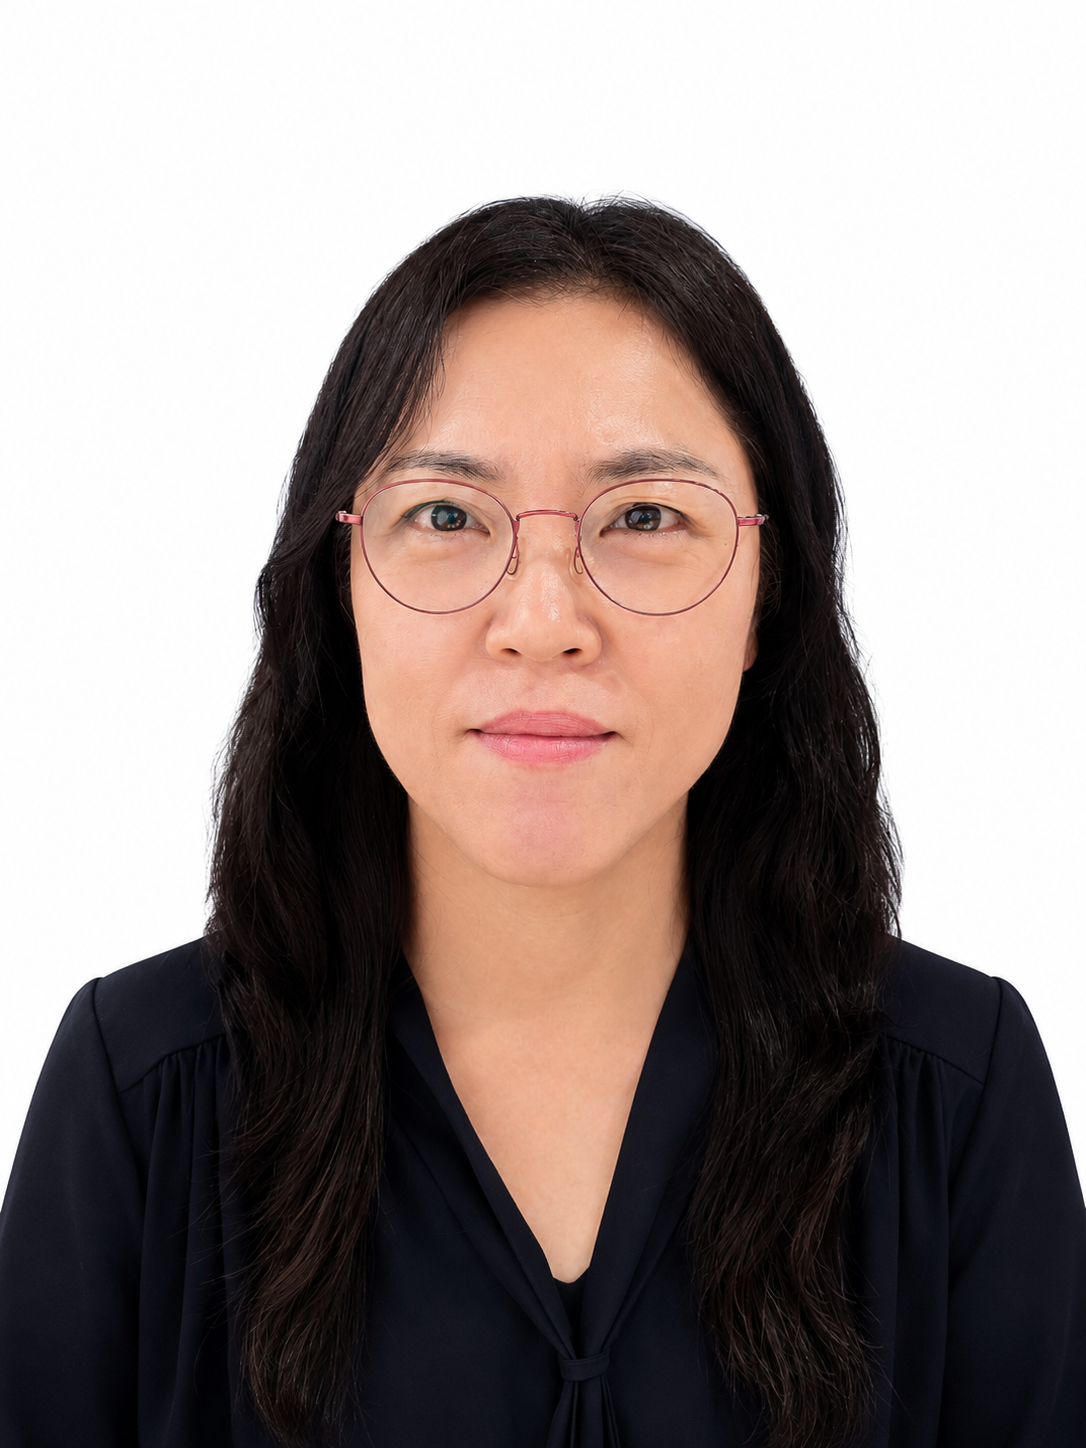
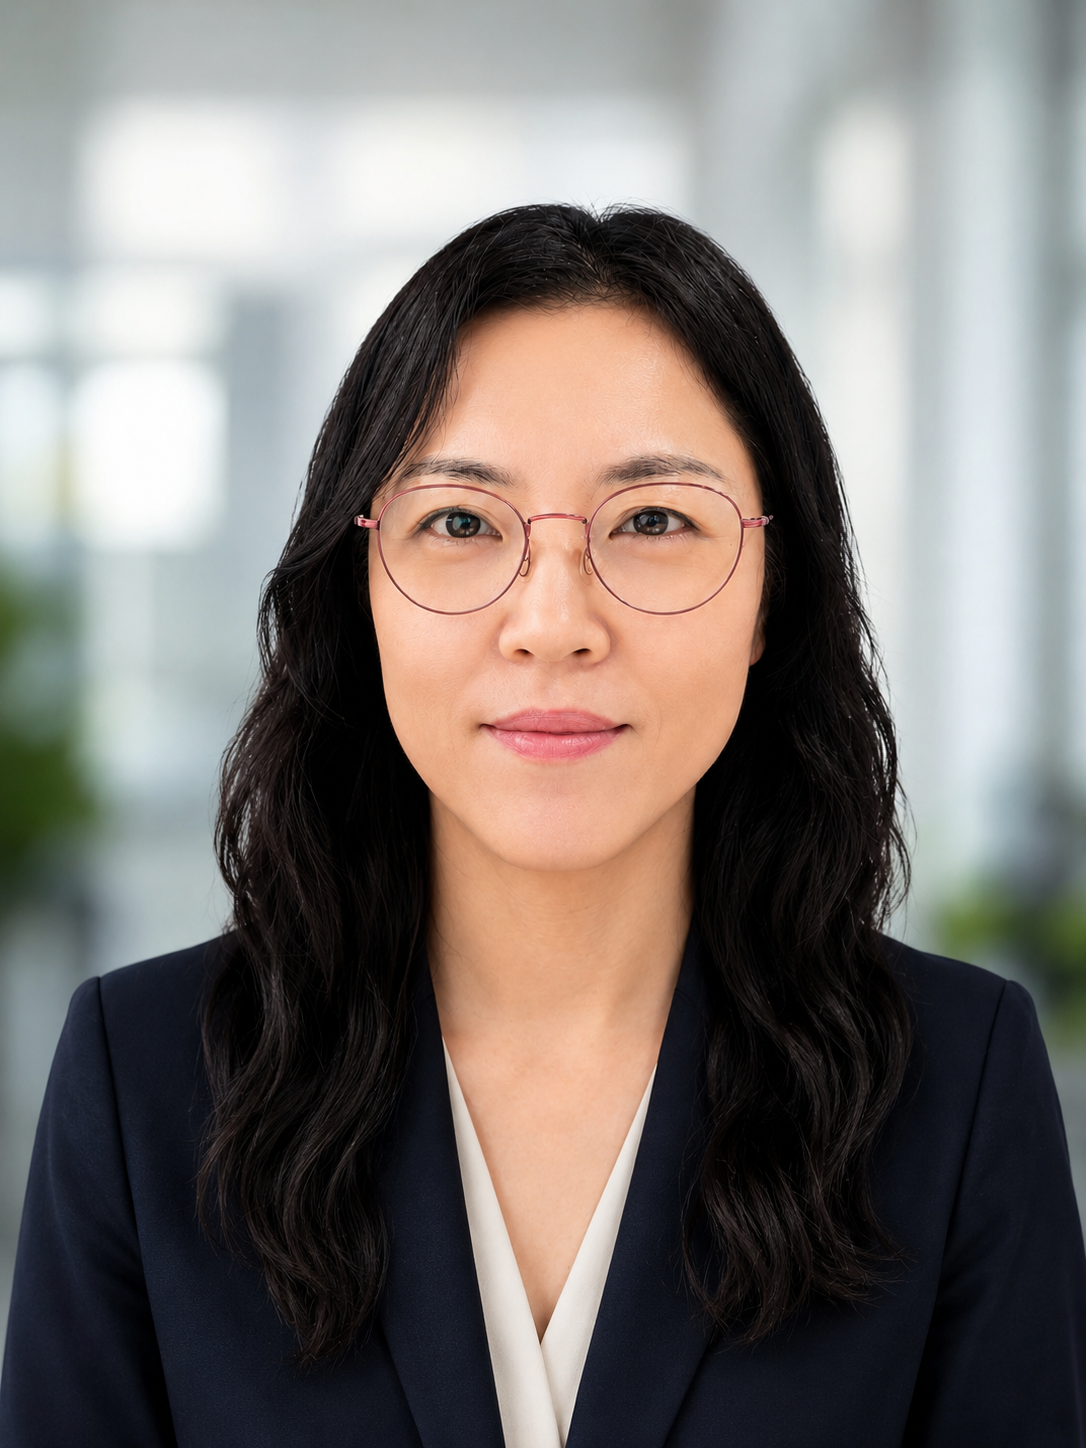
네이버 사이트 소유확인 태그 추가

diff --git a/index.html b/index.html
@@ -12,7 +12,7 @@
   <meta property="og:type" content="profile">
   <meta property="og:url" content="https://park336700-ops.github.io/">
   <meta property="og:image" content="https://park336700-ops.github.io/assets/park-mi-ae-profile.png">
-  <!-- 네이버 서치어드바이저 소유확인: <meta name="naver-site-verification" content="발급코드"> -->
+  <meta name="naver-site-verification" content="482c3bebd728c4444ed0ac367a89dda87c87e959" />
   <!-- Google Search Console 소유확인: <meta name="google-site-verification" content="발급코드"> -->
   <link rel="stylesheet" href="./style.css">
   <script src="./script.js" defer></script>